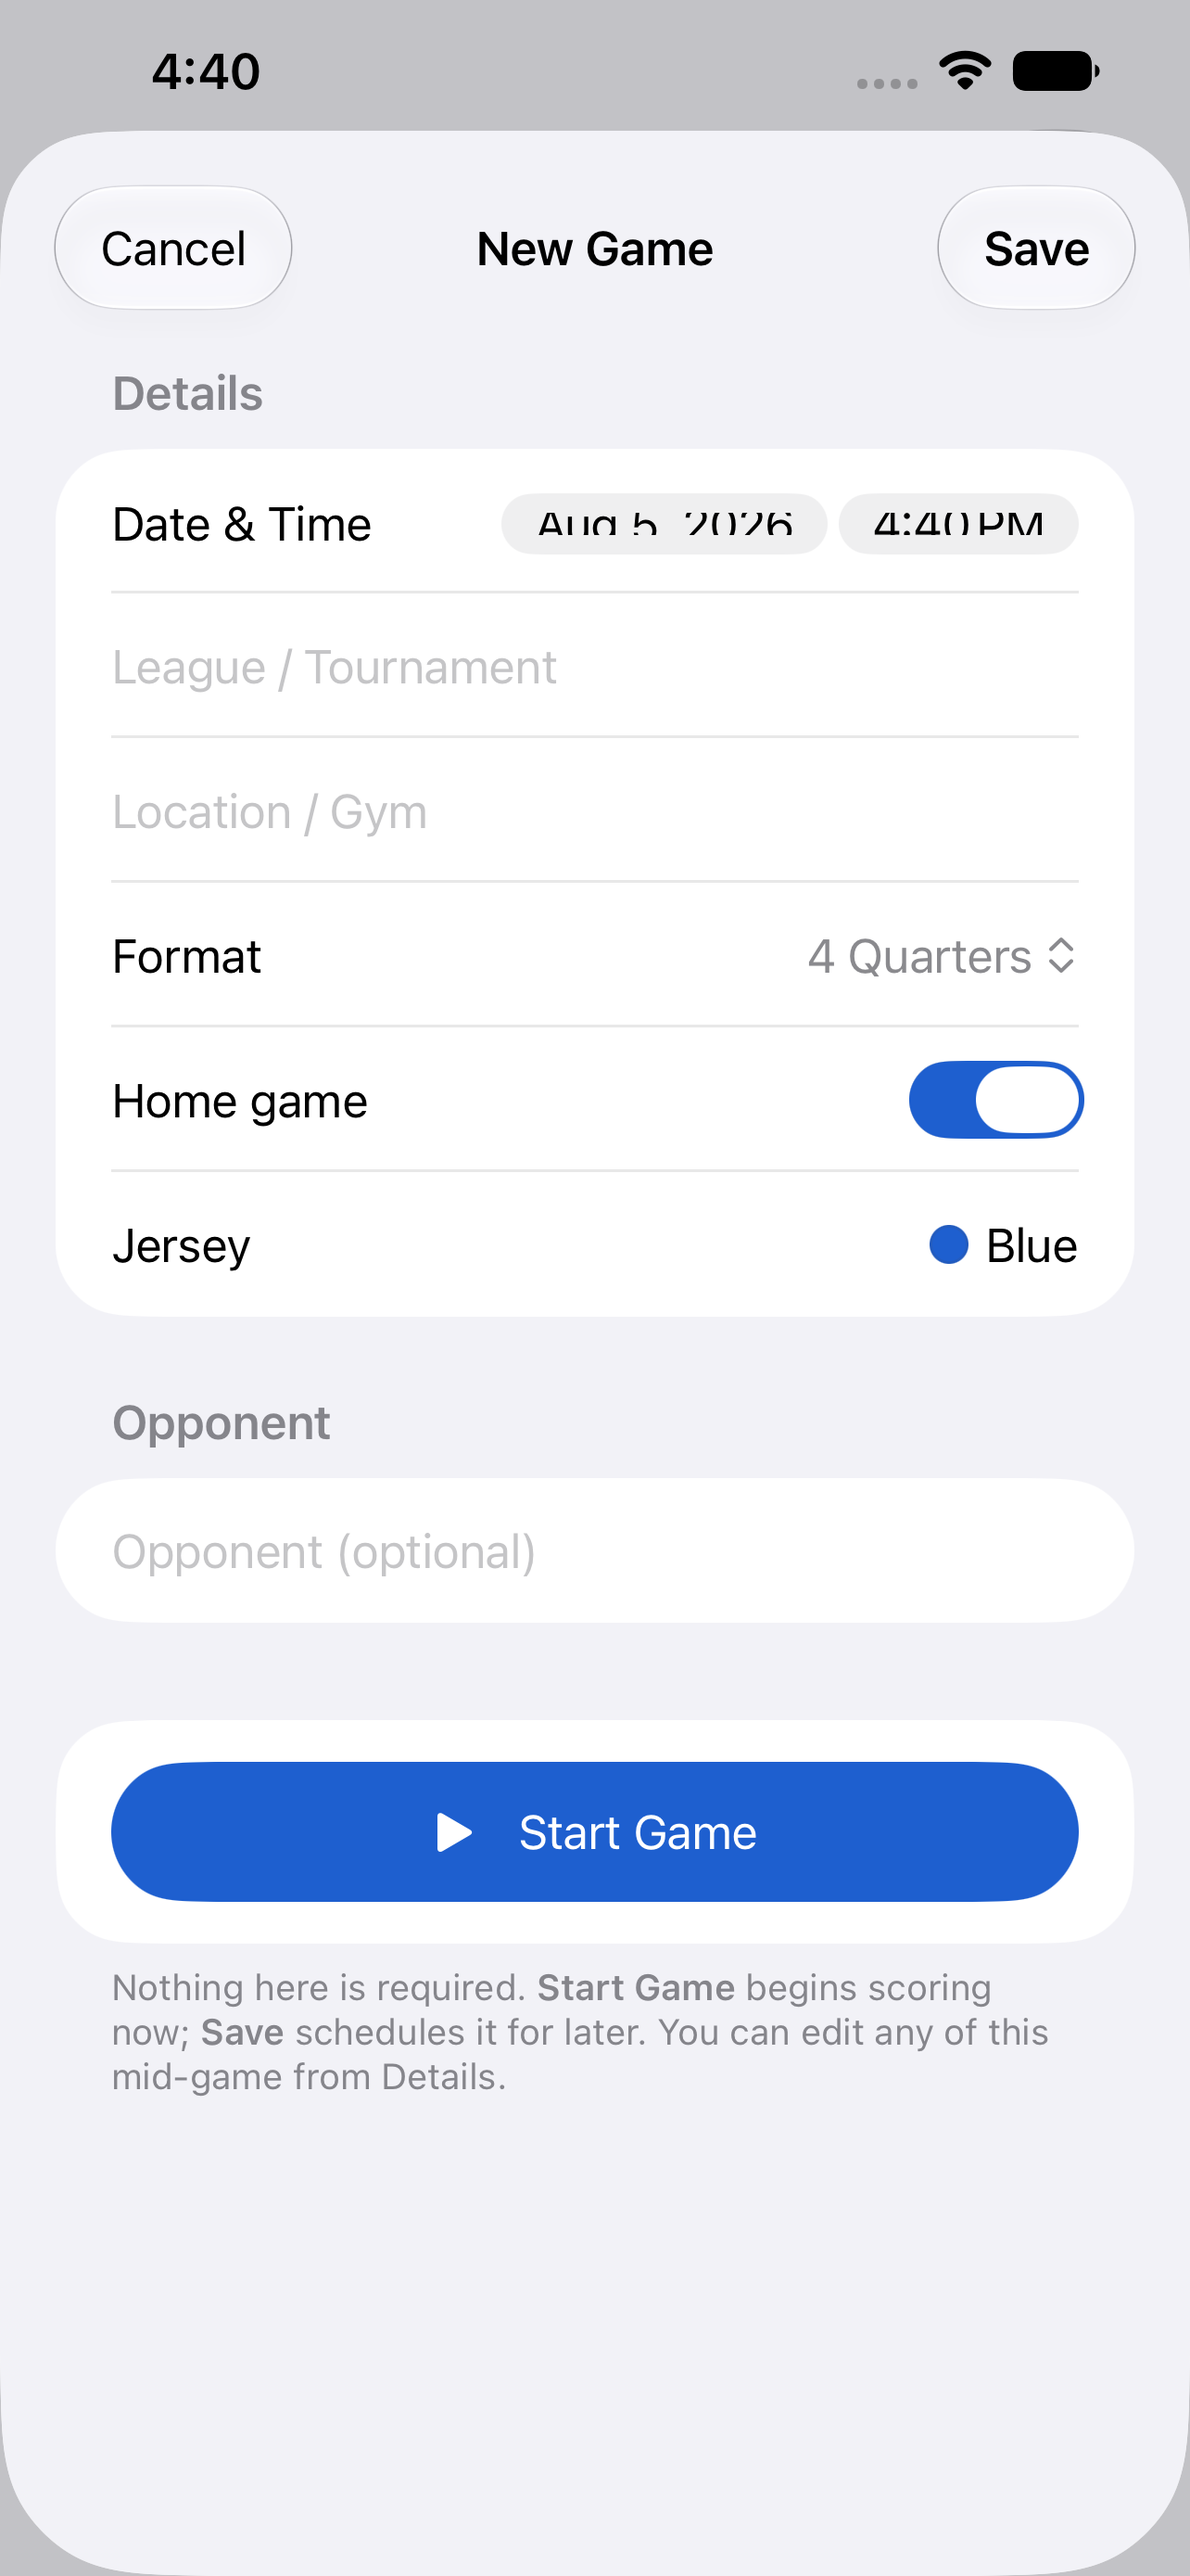
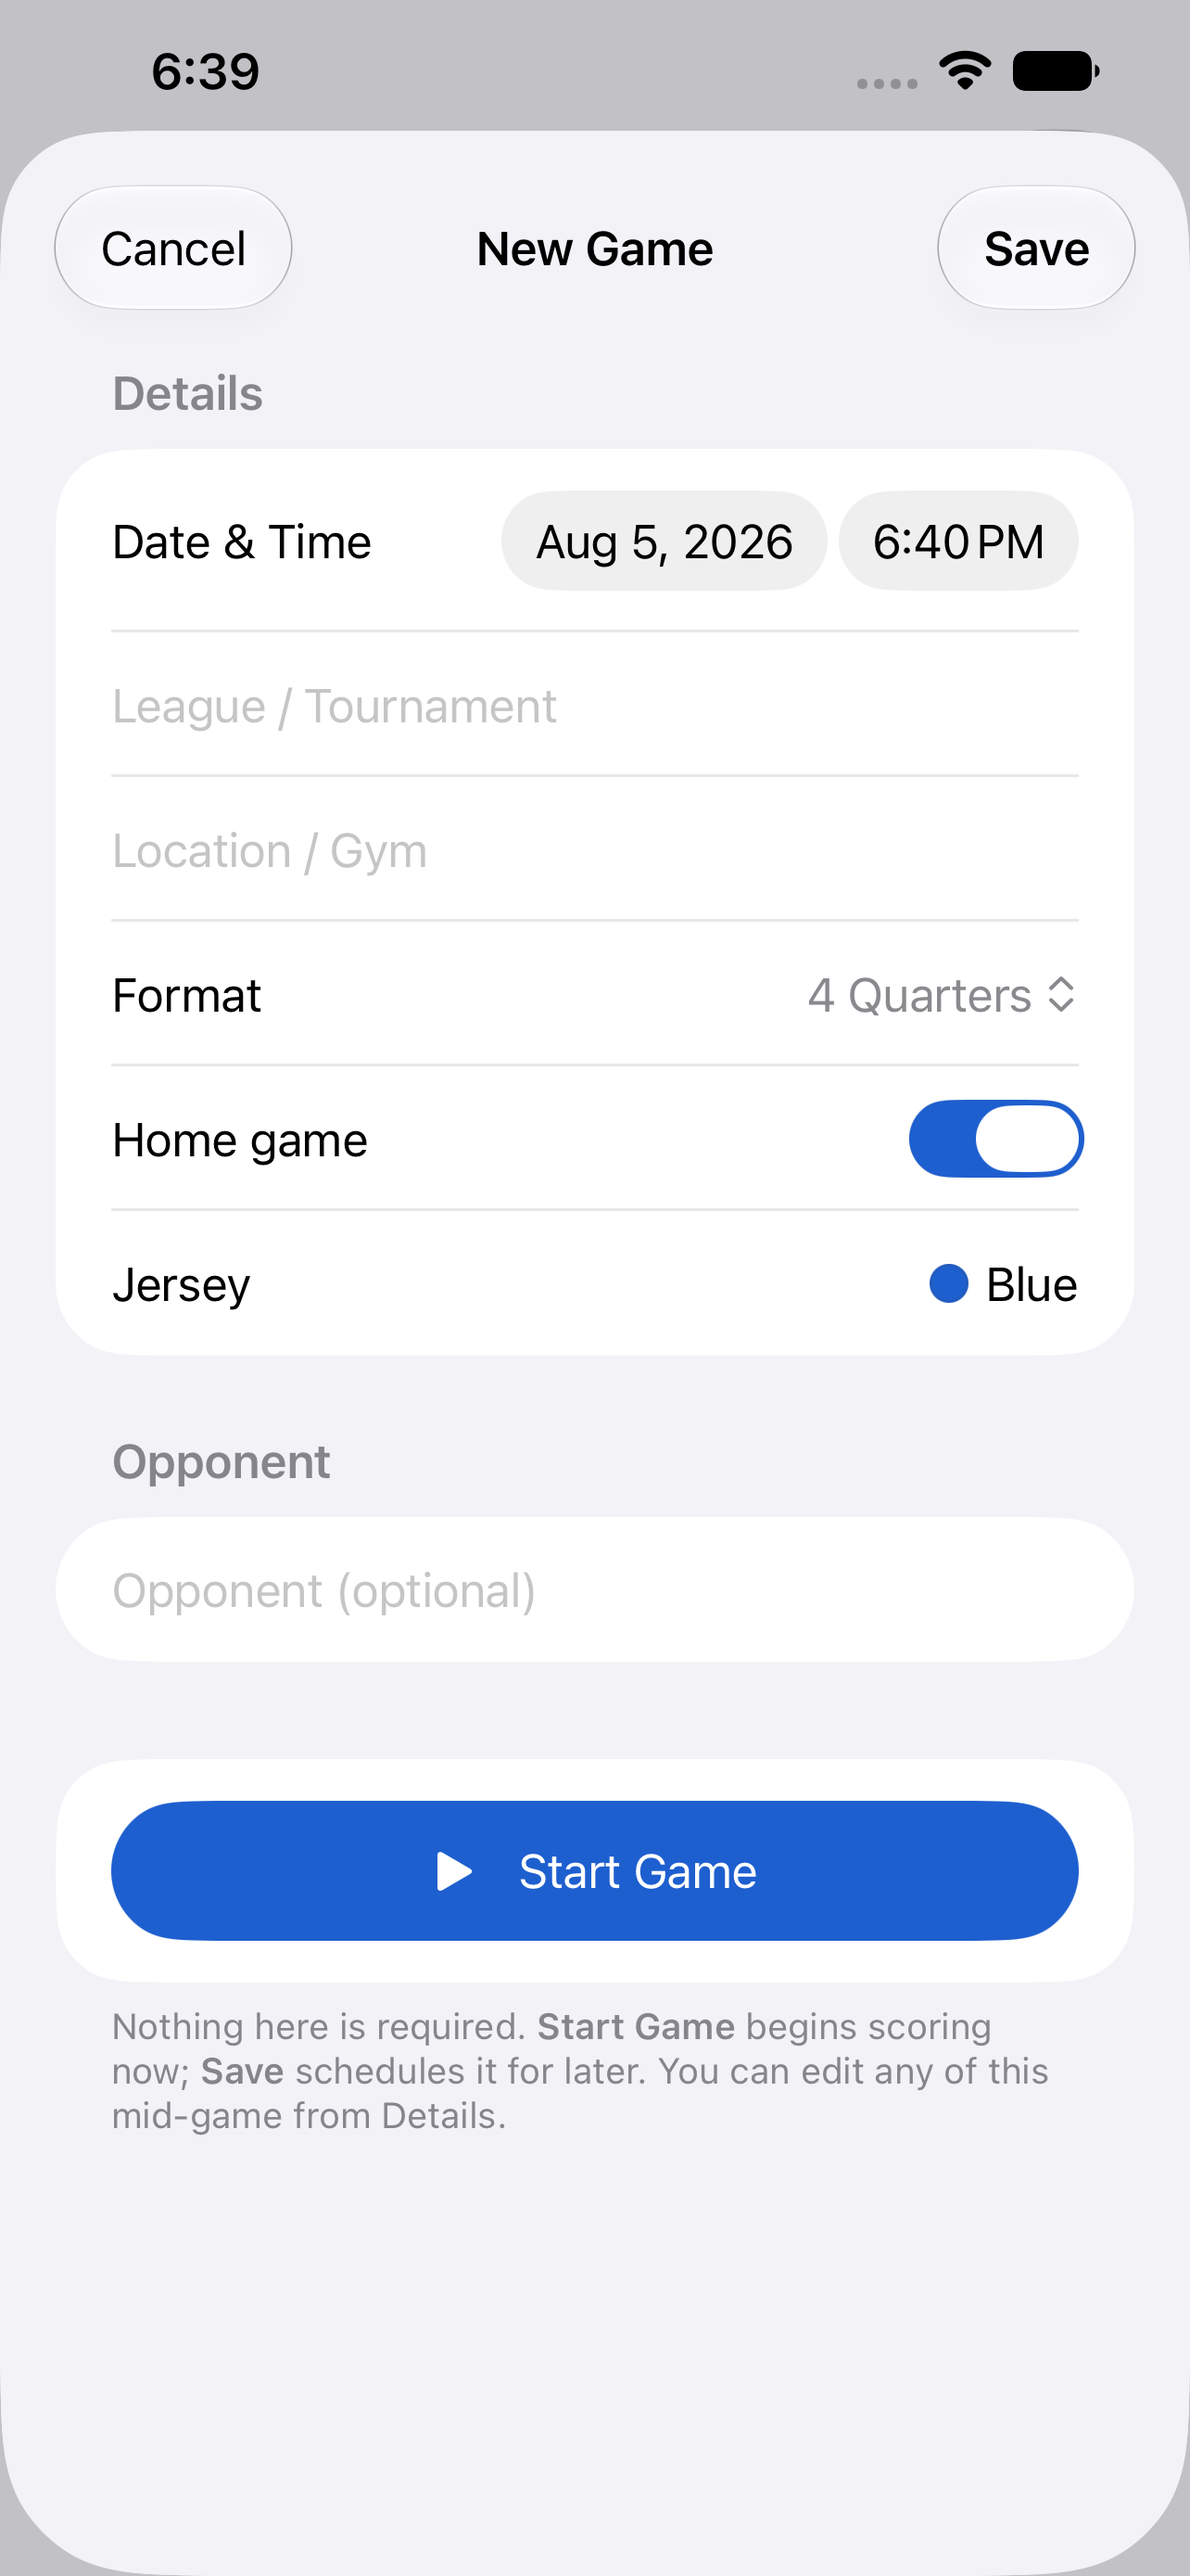
Size the game date picker to its own content (#74)
GameDatePicker is a UIViewRepresentable, and it never implemented
sizeThatFits. Without one SwiftUI sizes the wrapped view to whatever the
parent proposes instead of asking UIKit, so inside a Form's LabeledContent
row the compact UIDatePicker was handed the standard row height and drew
its two pills with the date and time text clipped top and bottom.

Answer the size query with the picker's own systemLayoutSizeFitting for
the compressed fitting size, which lets the row grow to the control's
natural 36pt height. This fixes both the New Game and Edit Game sheets,
which share the wrapper, and leaves minuteInterval and the binding
rounding untouched.

Closes #71.

Claude-Session: https://claude.ai/code/session_01XKw3Fyr61m8RtwfRppQofX

diff --git a/CourtsideHoopStats/Views/GameDatePicker.swift b/CourtsideHoopStats/Views/GameDatePicker.swift
@@ -36,6 +36,15 @@ struct GameDatePicker: UIViewRepresentable {
         if selection != rounded { DispatchQueue.main.async { selection = rounded } }
     }
 
+    /// Without this SwiftUI hands the picker whatever the `Form` row proposes and
+    /// the compact pills render clipped. Answer with the control's own compressed
+    /// size so the row grows to fit it instead.
+    func sizeThatFits(_ proposal: ProposedViewSize,
+                      uiView picker: UIDatePicker,
+                      context: Context) -> CGSize? {
+        picker.systemLayoutSizeFitting(UIView.layoutFittingCompressedSize)
+    }
+
     func makeCoordinator() -> Coordinator { Coordinator(selection: $selection) }
 
     final class Coordinator: NSObject {
